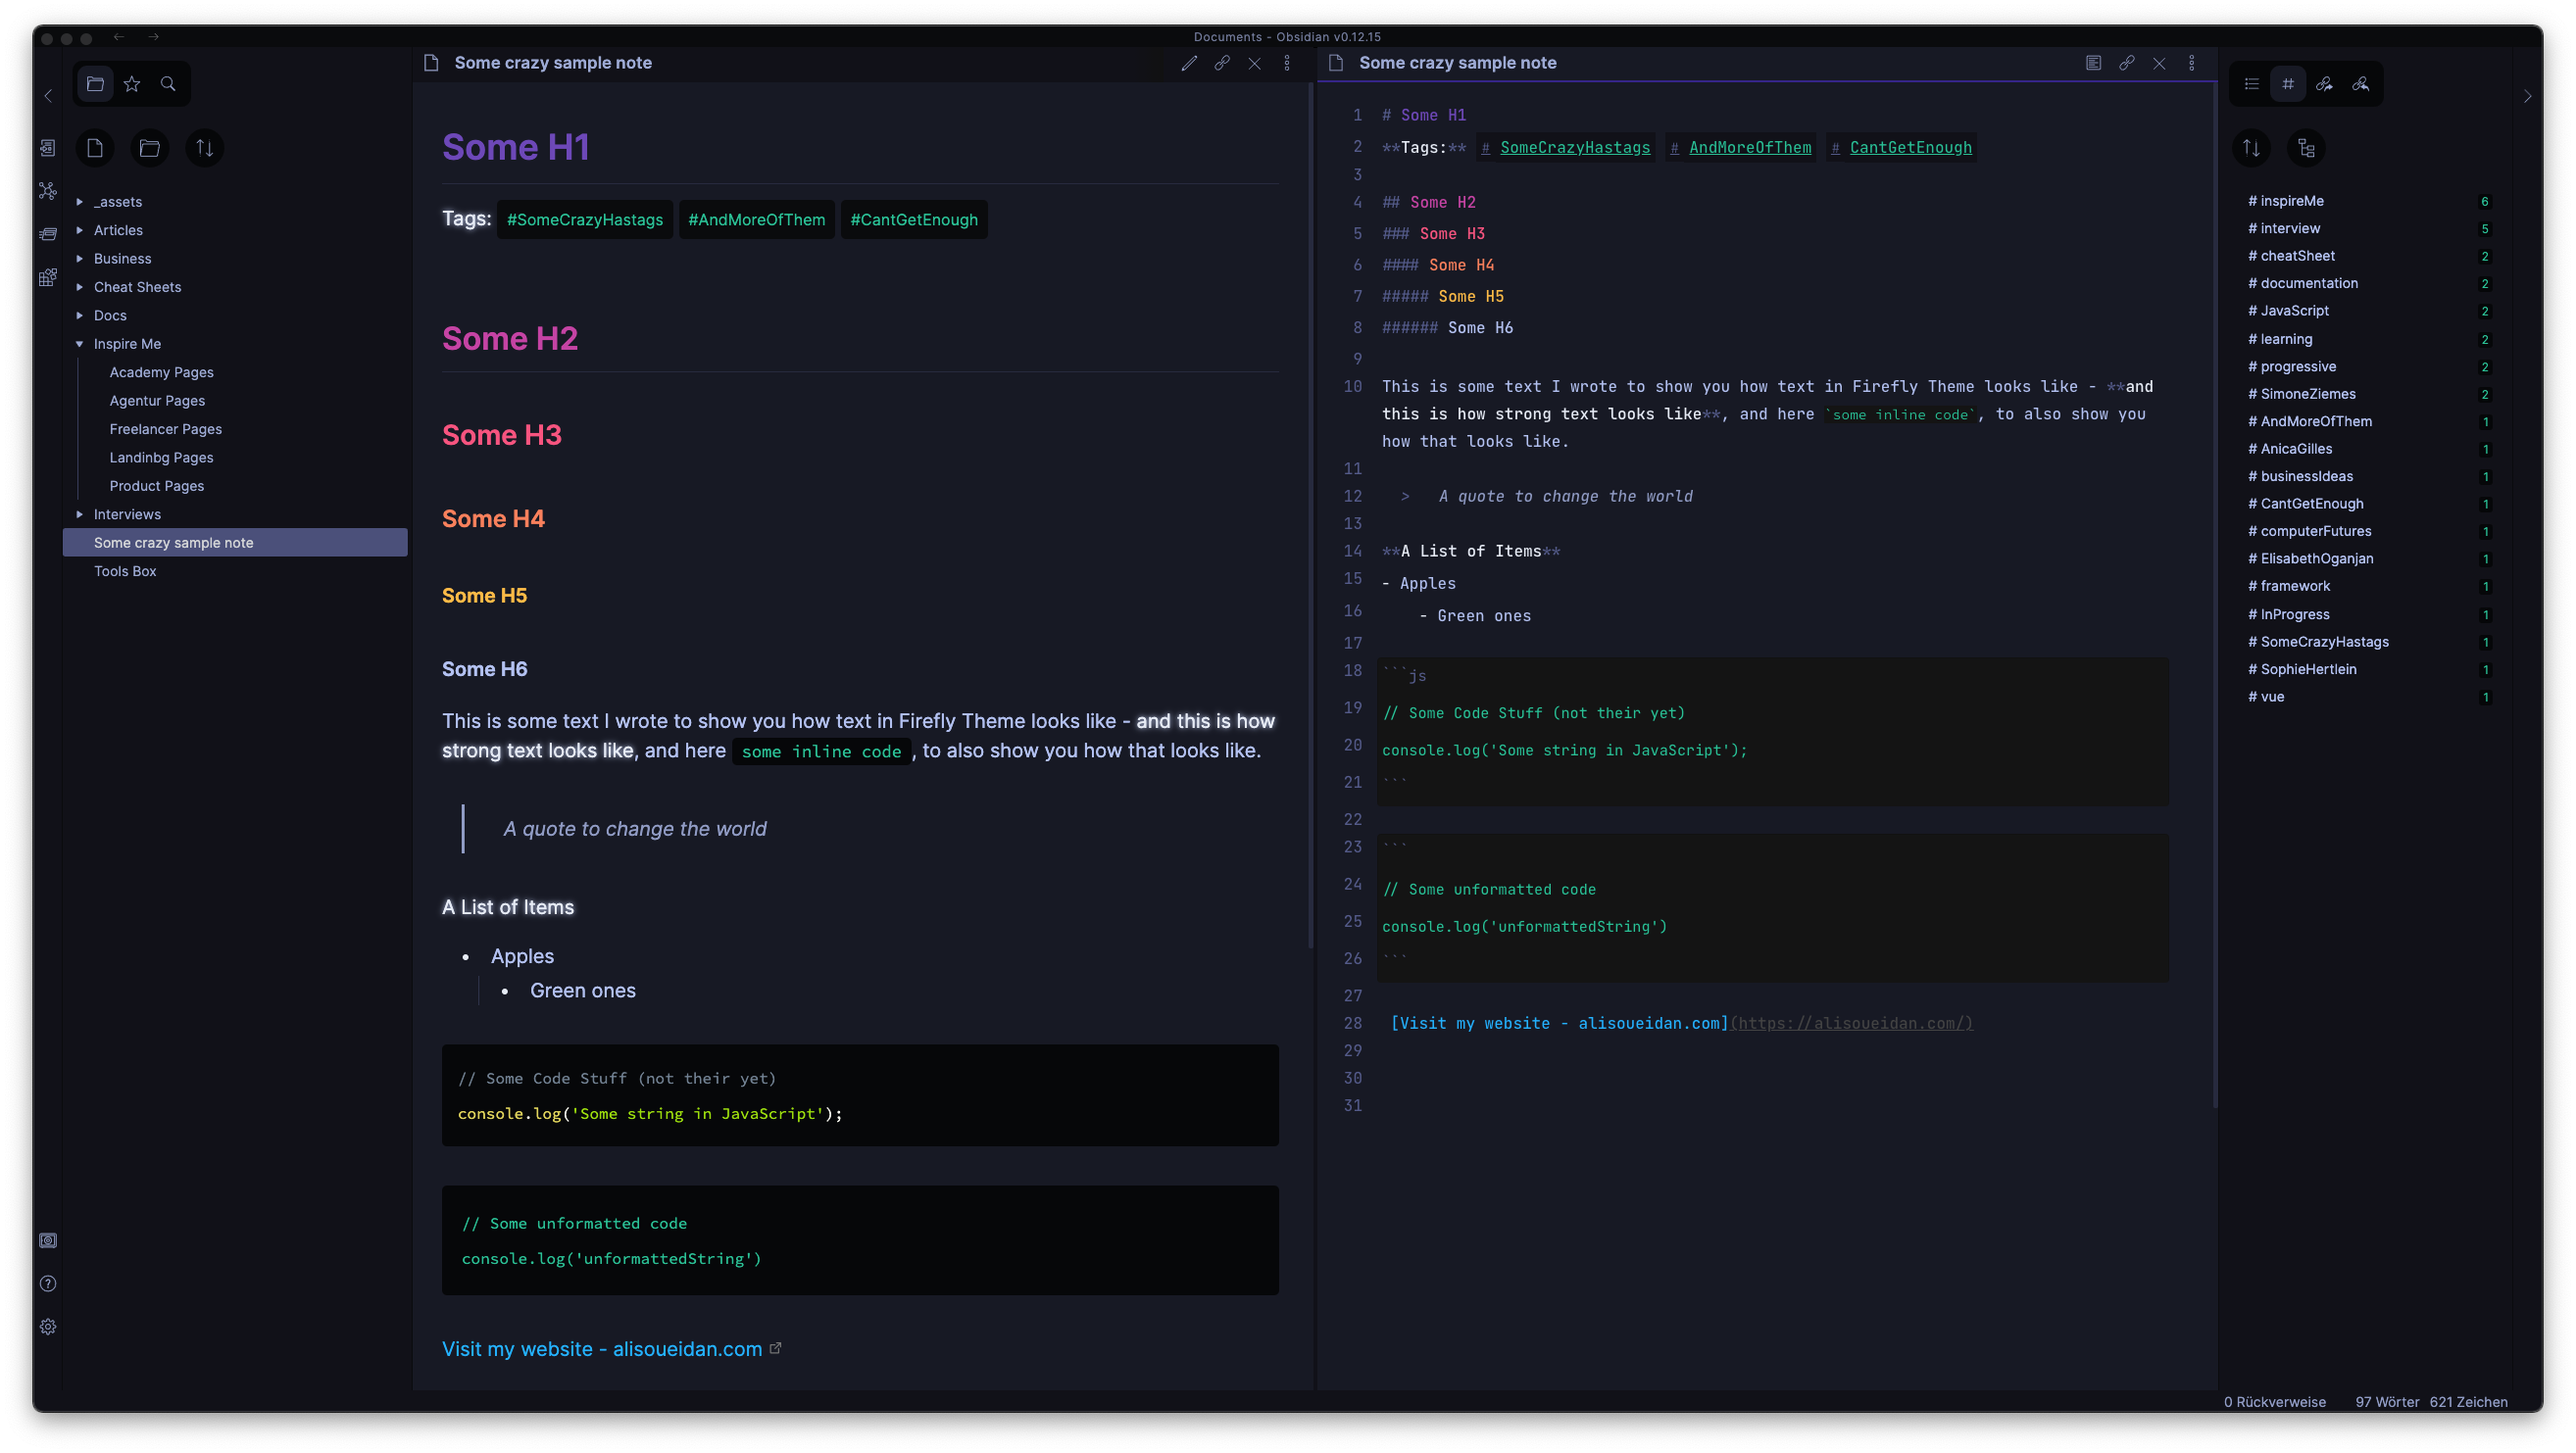
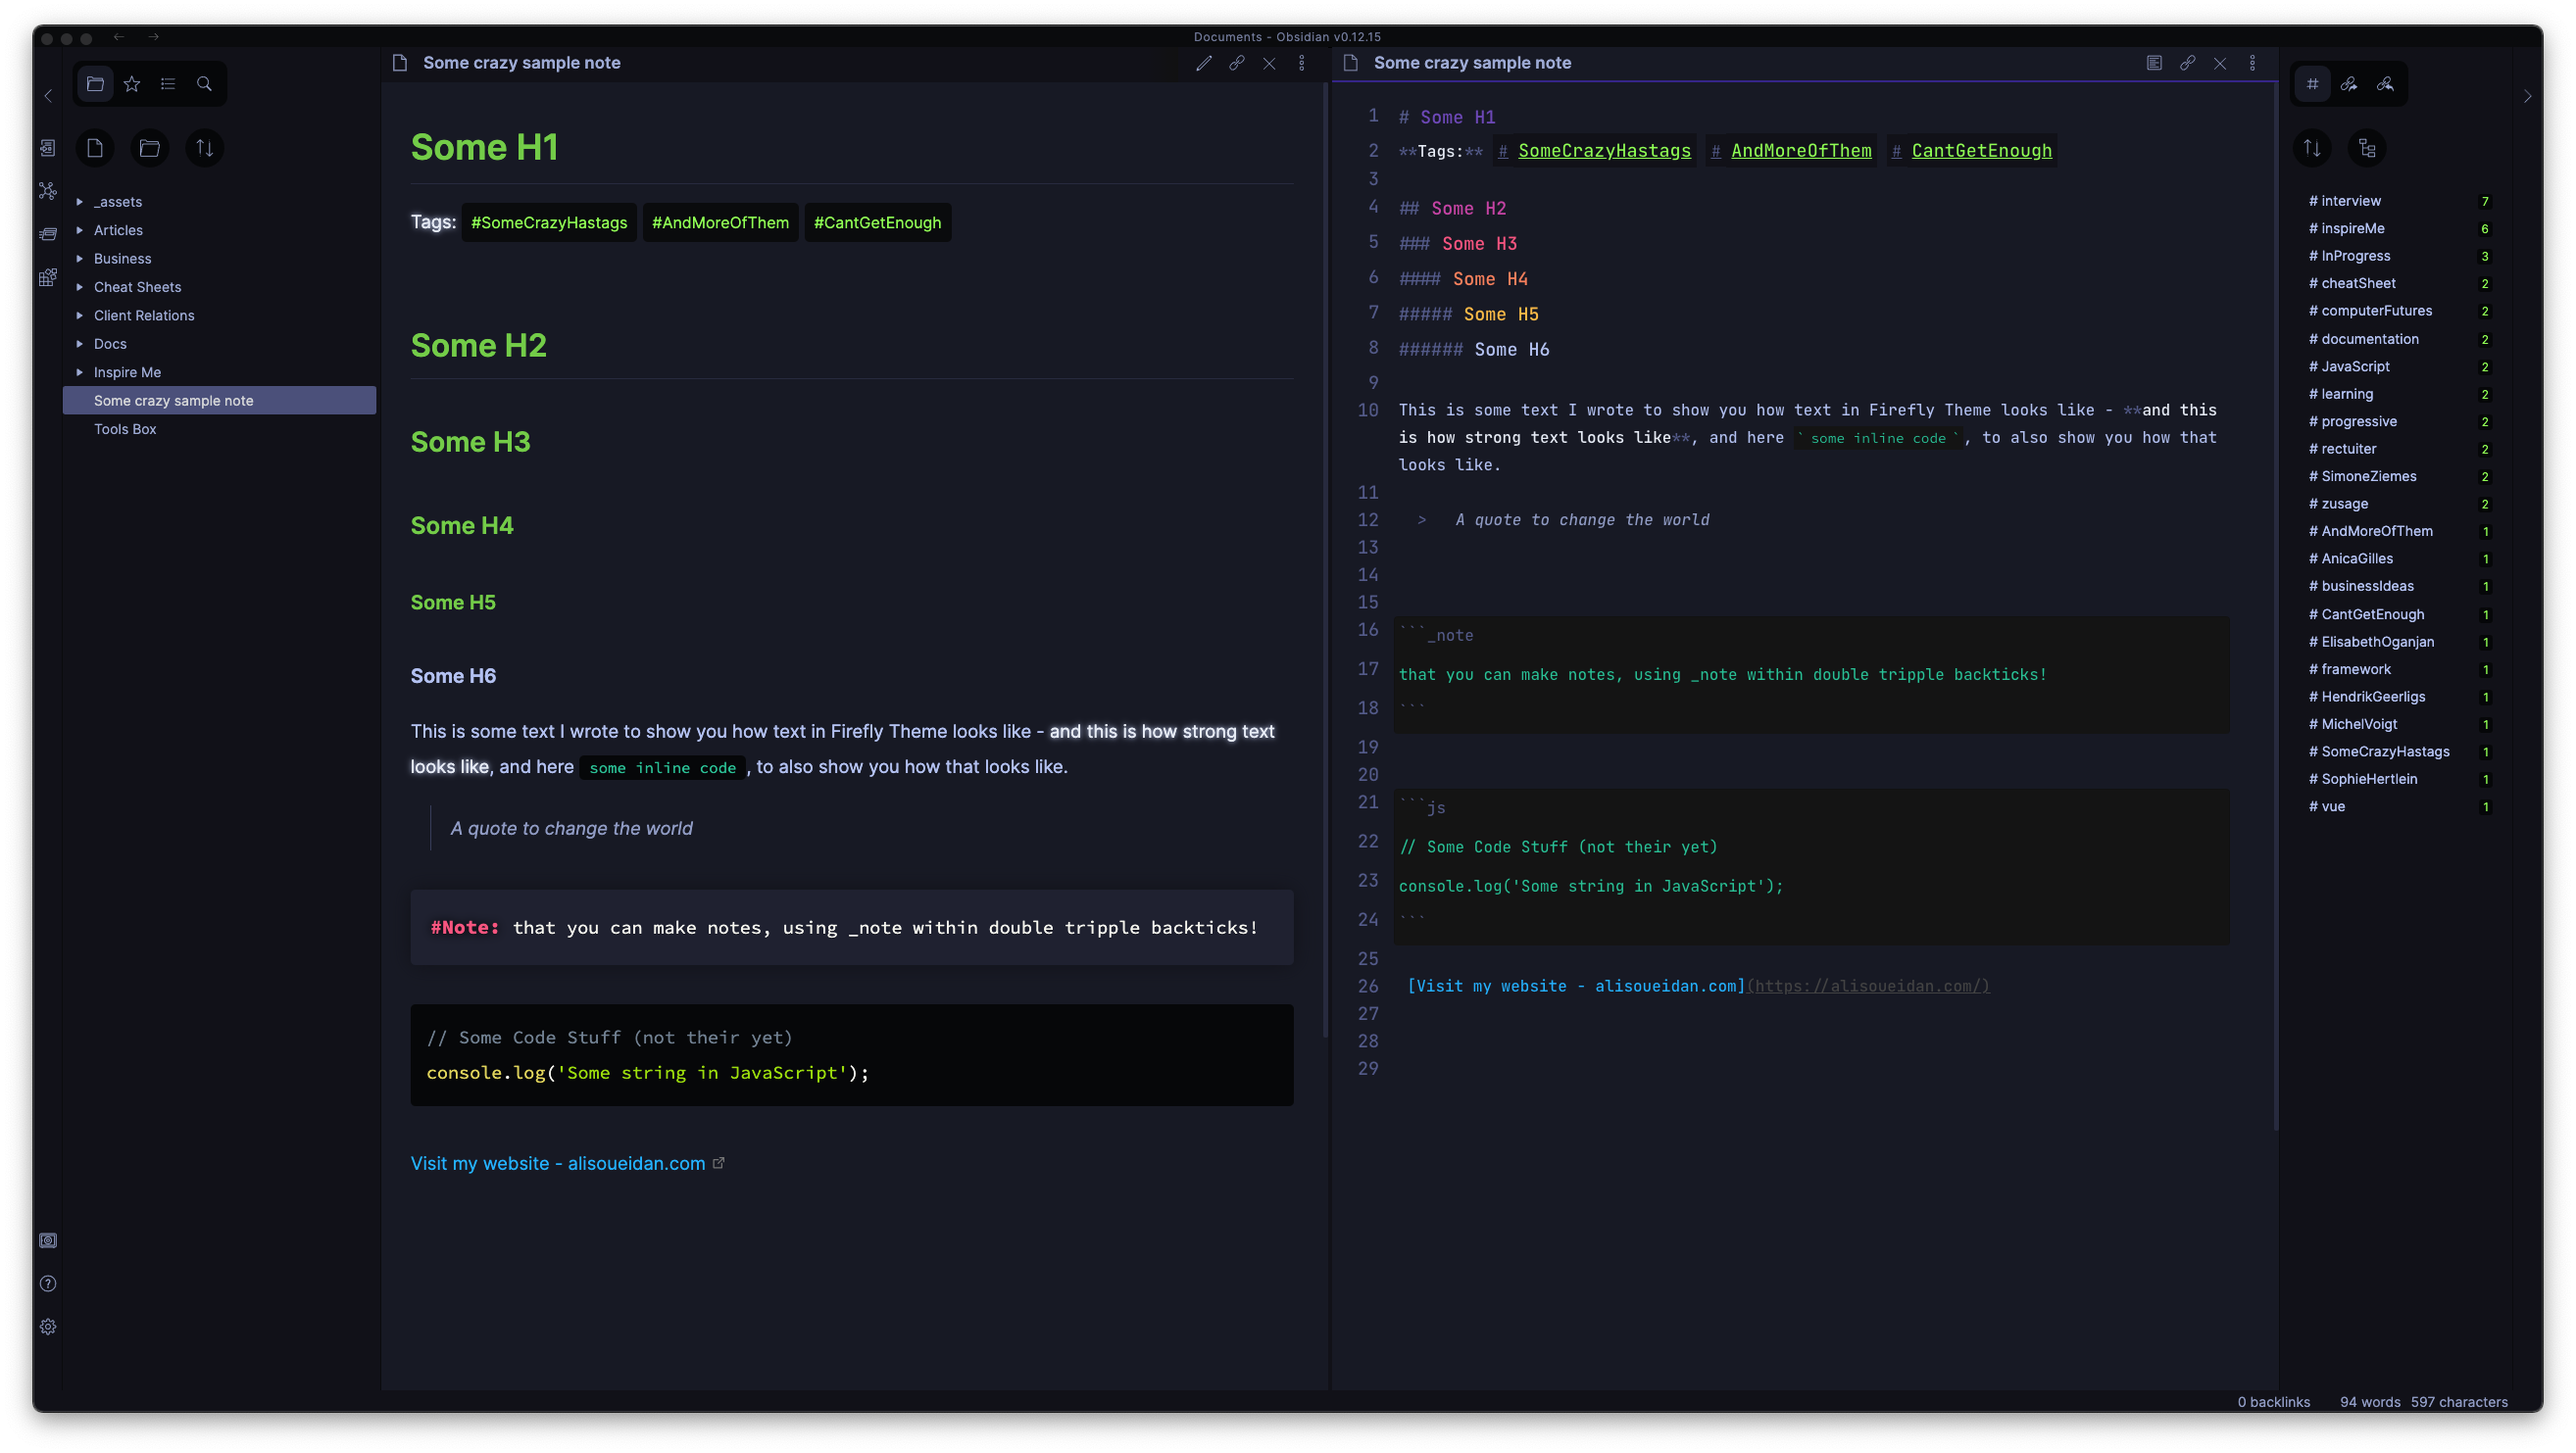
added new colors and features

diff --git a/obsidian.css b/obsidian.css
@@ -10,12 +10,18 @@
   --color-primary-900: #15161f;
   --color-primary-1000: #0a0b0f;
   --color-primary-1100: #050608;
-  --color-title-h1: #9f73e6;
-  --color-title-h2: #ec68c5;
-  --color-title-h3: #FF6F91;
-  --color-title-h4: #FF9671;
-  --color-title-h5: #FFC75F;
+  --color-title-h1: #95ff6fc3;
+  --color-title-h2: #95ff6fc3;
+  --color-title-h3: #95ff6fc3;
+  --color-title-h4: #95ff6fc3;
+  --color-title-h5: #95ff6fc3;
   --color-title-h6: #c0cdf3;
+  --color-editor-title-h1: #845EC2;
+  --color-editor-title-h2: #D65DB1;
+  --color-editor-title-h3: #FF6F91;
+  --color-editor-title-h4: #FF9671;
+  --color-editor-title-h5: #FFC75F;
+  --color-editor-title-h6: #c0cdf3;
   --color-element-icon: #adb9db;
   --color-element-icon-hover: #ebeff7;
   --color-element-border: #0a0b0f;
@@ -23,18 +29,19 @@
   --color-element-ordered-list-indicator: #ebeff7;
   --color-element-unordered-list-indicator: #ebeff7;
   --color-element-markup-tags: #FFC75F;
-  --color-element-markup-attribute: #00C9A7;
+  --color-element-markup-attribute: #95ff6f;
   --color-element-markup-attribute-value: #ebeff7;
+  --color-text-paragraph: #c0cdf3;
   --color-text-strong: #ebeff7;
   --color-text-code: #00C9A7;
   --color-text-inline-code: #00C9A7;
   --color-text-code-background: #050608;
-  --color-text-paragraph: #c0cdf3;
   --color-text-quote: #a1acce;
-  --color-text-quote-border: #a1acce;
+  --color-text-quote-border: #464e62;
   --color-text-link: #00bfff;
   --color-text-linkUrl: #555555;
-  --color-text-hash-tag: #00C9A7;
+  --color-text-note-indicator: #FF6F91;
+  --color-text-hash-tag: #95ff6f;
 }
 
 .theme-light {
@@ -99,27 +106,27 @@
 }
 
 .cm-header-1 {
-  color: var(--color-title-h1);
+  color: var(--color-editor-title-h1);
 }
 
 .cm-header-2 {
-  color: var(--color-title-h2);
+  color: var(--color-editor-title-h2);
 }
 
 .cm-header-3 {
-  color: var(--color-title-h3);
+  color: var(--color-editor-title-h3);
 }
 
 .cm-header-4 {
-  color: var(--color-title-h4);
+  color: var(--color-editor-title-h4);
 }
 
 .cm-header-5 {
-  color: var(--color-title-h5);
+  color: var(--color-editor-title-h5);
 }
 
 .cm-header-6 {
-  color: var(--color-title-h6);
+  color: var(--color-editor-title-h6);
 }
 
 .cm-s-obsidian {
@@ -167,7 +174,7 @@
 }
 .cm-s-obsidian span.cm-inline-code {
   padding: 0.2em;
-  color: var(--color-text-code);
+  color: var(--color-text-inline-code);
 }
 .cm-s-obsidian span.cm-tag {
   color: var(--color-element-markup-tags);
@@ -286,10 +293,10 @@
   text-decoration: underline;
 }
 .markdown-preview-view blockquote {
-  margin: 40px 20px;
-  padding-left: 40px;
+  margin: 20px;
+  padding: 5px 20px;
   border: unset;
-  border-left: 3px solid var(--color-text-quote-border);
+  border-left: 1px solid var(--color-primary-400);
   font-style: italic;
 }
 .markdown-preview-view blockquote p {
@@ -339,6 +346,22 @@
   font-weight: 500;
   line-height: var(--color-lineheight-regular);
   border-radius: 5px;
+}
+.markdown-preview-view pre.language-_note {
+  margin: 20px 0;
+  padding: 20px;
+  background-color: var(--color-primary-700) !important;
+  box-shadow: 0 0 20px var(--color-primary-900);
+}
+.markdown-preview-view pre.language-_note code {
+  white-space: initial;
+}
+.markdown-preview-view pre.language-_note code:before {
+  content: "#Note: ";
+  color: var(--color-text-note-indicator);
+  filter: drop-shadow(0 0 5px #000);
+  font-size: var(--color-size-large);
+  font-weight: 600;
 }
 .markdown-preview-view pre code {
   color: var(--color-text-code);

diff --git a/scss/_colors.scss b/scss/_colors.scss
@@ -13,8 +13,16 @@ $colors: (
     1100: #050608,
   ),
   title: (
-    h1: #9f73e6,
-    h2: #ec68c5,
+    h1: #95ff6fc3,
+    h2: #95ff6fc3,
+    h3: #95ff6fc3,
+    h4: #95ff6fc3,
+    h5: #95ff6fc3,
+    h6: #c0cdf3,
+  ),
+  editor-title: (
+    h1: #845EC2,
+    h2: #D65DB1,
     h3: #FF6F91,
     h4: #FF9671,
     h5: #FFC75F,
@@ -28,20 +36,21 @@ $colors: (
     ordered-list-indicator: #ebeff7,
     unordered-list-indicator: #ebeff7,
     markup-tags: #FFC75F,
-    markup-attribute: #00C9A7,
+    markup-attribute: #95ff6f,
     markup-attribute-value: #ebeff7,
   ),
   text: (
+    paragraph: #c0cdf3,
     strong: #ebeff7,
     code: #00C9A7,
     inline-code: #00C9A7,
     code-background: #050608,
-    paragraph: #c0cdf3,
     quote: #a1acce,
-    quote-border: #a1acce,
+    quote-border: #464e62,
     link: #00bfff,
     linkUrl: #555555,
-    hash-tag: #00C9A7,
+    note-indicator: #FF6F91,
+    hash-tag: #95ff6f,
   ),
 );
 

diff --git a/scss/modules/preview/code.scss b/scss/modules/preview/code.scss
@@ -1,5 +1,6 @@
 .markdown-preview-view {
 
+  // TODO: style code for each common language
   pre {
     margin: 40px 0!important;
     padding: 20px;
@@ -8,6 +9,23 @@
     font-weight: 500;
     line-height: font(lineheight, regular);
     border-radius: 5px;
+    &.language-_note {
+      margin: 20px 0;
+      padding: 20px;
+      background-color: color(primary, 700)!important;
+      box-shadow: 0 0 20px color(primary, 900);
+      code {
+        white-space: initial;
+        &:before {
+          content:'#Note: ';
+          color: color(text, note-indicator);
+          filter: drop-shadow(0 0 5px #000);
+          font-size: font(size, large);
+          font-weight: 600;
+        }
+      }
+    }
+
     code {
       color: color(text, code);
       line-height: font(lineheight, large)!important;

diff --git a/scss/modules/editor/headlines.scss b/scss/modules/editor/headlines.scss
@@ -10,25 +10,25 @@
 }
 
 .cm-header-1 {
-  color: color(title, h1);
+  color: color(editor-title, h1);
 }
 
 .cm-header-2 {
-  color: color(title, h2);
+  color: color(editor-title, h2);
 }
 
 .cm-header-3 {
-  color: color(title, h3);
+  color: color(editor-title, h3);
 }
 
 .cm-header-4 {
-  color: color(title, h4);
+  color: color(editor-title, h4);
 }
 
 .cm-header-5 {
-  color: color(title, h5);
+  color: color(editor-title, h5);
 }
 
 .cm-header-6 {
-  color: color(title, h6);
+  color: color(editor-title, h6);
 }

diff --git a/scss/modules/editor/code.scss b/scss/modules/editor/code.scss
@@ -20,7 +20,7 @@
 
   span.cm-inline-code {
     padding: .2em;
-    color: color(text, code);
+    color: color(text, inline-code);
     // DEBUG: setting a background-color is currently leading to text-selections is overlayed by the background https://forum.obsidian.md/t/inline-code-occludes-text-selection-and-vim-cursor/11552/8
     // background-color: color(text, code-background)!important;
   }

diff --git a/scss/modules/preview/text.scss b/scss/modules/preview/text.scss
@@ -37,10 +37,10 @@
   }
 
   blockquote {
-    margin: 40px 20px;
-    padding-left: 40px;
+    margin: 20px;
+    padding: 5px 20px;
     border: unset;
-    border-left: 3px solid color(text, quote-border);
+    border-left: 1px solid color(primary, 400);
     font-style: italic;
     p {
       color: color(text, quote);

diff --git a/README.md b/README.md
@@ -18,13 +18,26 @@ Firefly was created to add an Obsidian theme, that has more of the look and feel
 5. Click Use and then you're done! 🎉
 
 ### Manually
-1. Download `obsidian.css`from the this repo.
+1. Download `obsidian.css` from the this repo.
 1. Rename the file to `Firefly.css`, to make sure that it has a unique name (preventing duplicates).
 2. Place the file into your vault's /.obsidian/themes directory.
 3. Open the Settings in Obsidian.
 4. Navigate to Appearances tab under Options, also Ensure that the 'Base mode' setting is set to `Dark mode` and that 'Custom CSS' is turned on.
 5. Under the Themes section, click on the dropdown menu next to Theme heading.
 6. Select for Firefly and then you're done! 🎉
+
+## Specific Features
+
+### Code-Style-Tags
+In the Firefly theme it is possible to highlight certain content using certain tags (I'll just call them code-style- tags (cst)). At the moment this is only an idea, which I have implemented rudimentary for now - I would be happy about feedback to the feature.
+
+![](./assets/_note-cst.png)
+
+**cst are generated by double triple backticks (like code blocks)**, but instead of the programming language for syntax highlighting, a cst is written after the opening backticks.
+
+### _notes cst
+Using the `_notes` cst, the content inside the tag is highlighted in preview mode as a "note box", which has a drop shadow, marks the text wirth a red #Note text.
+
 
 ## 📓 Typography
 This theme uses the [Inter](https://rsms.me/inter/) and [JetBrains Mono](https://jetbrains.com/mono) fonts. For the best experience, I recommend installing these fonts onto your local machine.

diff --git a/CHANGELOG.md b/CHANGELOG.md
@@ -3,6 +3,8 @@ All notable changes to this project will be documented in this file.
 
 ## [undefined] - 00.00.0000
 ### Added
+- "Code-Style-Tags" can be used within double tripple backtigs (which are usually used to mark code-blocks) - instead of adding a programminglanguage one can add "Code-Style-Tags", which will trigger specific styles e.g. to make special notes, etc.
+- Using the **Code-Style-Tag of _notes** tag will provide a note box with drop shadow (preview mode), in which notes will be marked as such and highlighted.
 ### Changed
 - Adjusted preview-texts line-height from default to 1.75rem.
 - Adjusted preview-texts font-size from 1.25rem to 1.15rem
